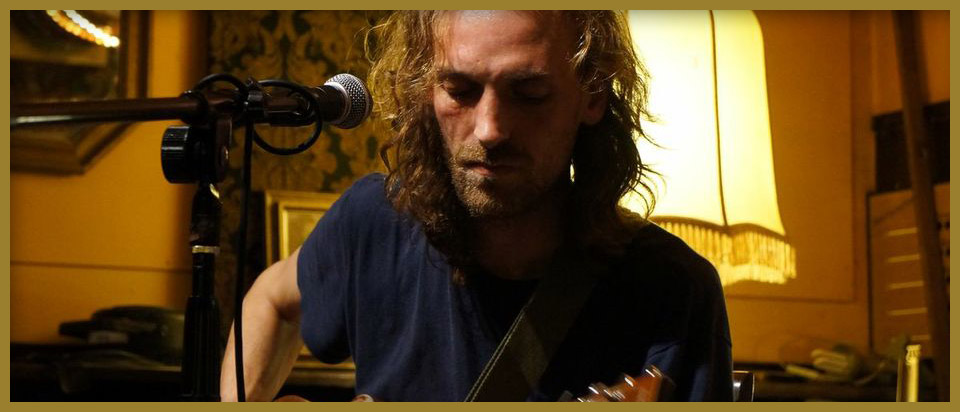
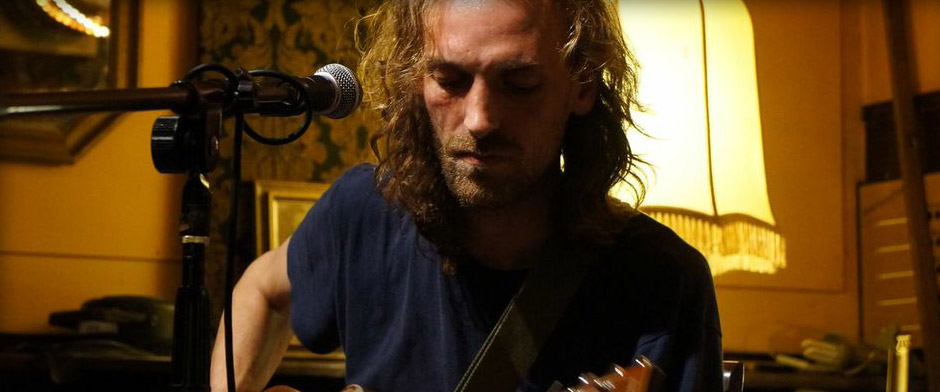
Mooiere slider :)

Changed region(s): [[0.0, 0.0, 1.0, 1.0], [0.5862, 0.398, 0.617, 0.4286]]

diff --git a/inc/js/toelie.js b/inc/js/toelie.js
@@ -1,22 +1,19 @@
-if(window.chrome) {
-		$('.banner li').css('background-size', '100% 100%');
-	}
-	
-	$('.banner').unslider({
-		fluid: true,
-		dots: true,
-		speed: 500
+$(function() {
+	$(document).foundation('orbit', {
+		slide_number: false,
+		bullets: false
 	});
+
 
 	//  Find any element starting with a # in the URL
 	//  And listen to any click events it fires
 	$('a[href^="#"]').click(function() {
 		//  Find the target element
 		var target = $($(this).attr('href'));
-		
+
 		//  And get its position
 		var pos = target.offset(); // fallback to scrolling to top || {left: 0, top: 0};
-		
+
 		//  jQuery will return false if there's no element
 		//  and your code will throw errors if it tries to do .offset().left;
 		if(pos) {
@@ -26,9 +23,12 @@ if(window.chrome) {
 				scrollLeft: pos.left
 			}, 1000);
 		}
-		
+
 		//  Don't let them visit the url, we'll scroll you there
 		return false;
 	});
-	
+
 	var GoSquared = {acct: 'GSN-396664-U'};
+
+});
+

diff --git a/index.html b/index.html
@@ -97,7 +97,6 @@
      	</div>
      </footer>
   <!-- Load teh scriptz -->
-  <script src="inc/js/vendor/custom.modernizr.js"></script>
   <script src="http://code.jquery.com/jquery-latest.min.js"></script>
 
   <script src="inc/js/foundation.min.js"></script>

diff --git a/inc/css/base2.css b/inc/css/base2.css
@@ -79,8 +79,10 @@ body {
 
 .banner {
 	width: 960px;
-	padding: 10px 0 10px 10px;
+	padding: 10px 0 0 10px;
+	height: 412px;
 	background: #9a7f2d;
+	margin: 0 auto;
 }
 
 /* FOOTER */
